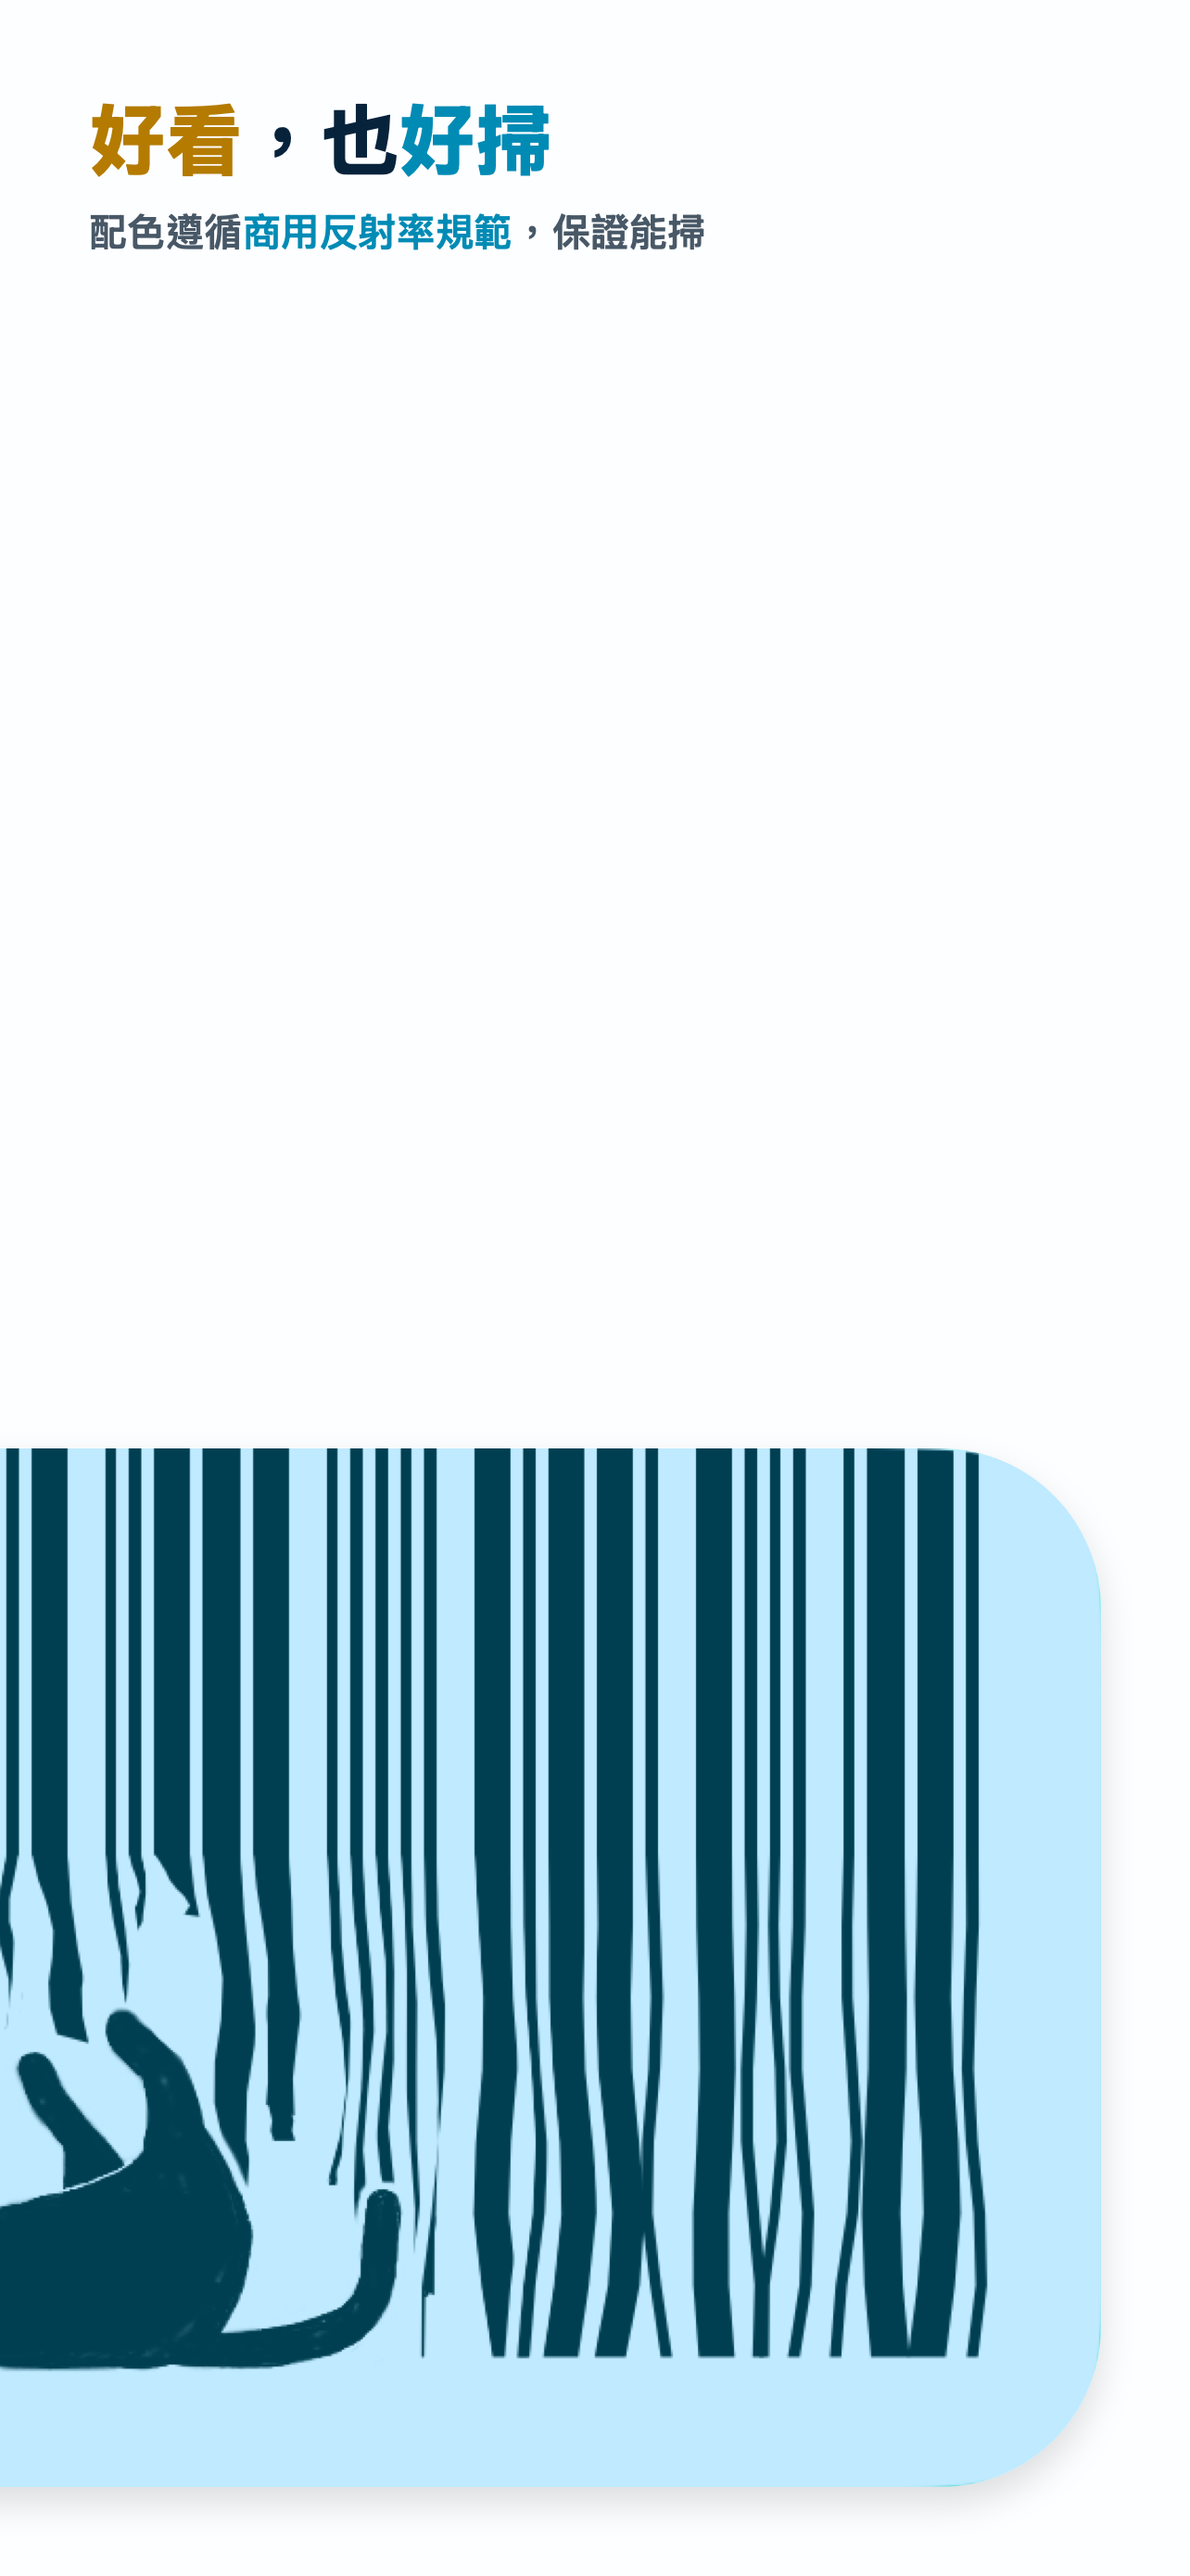
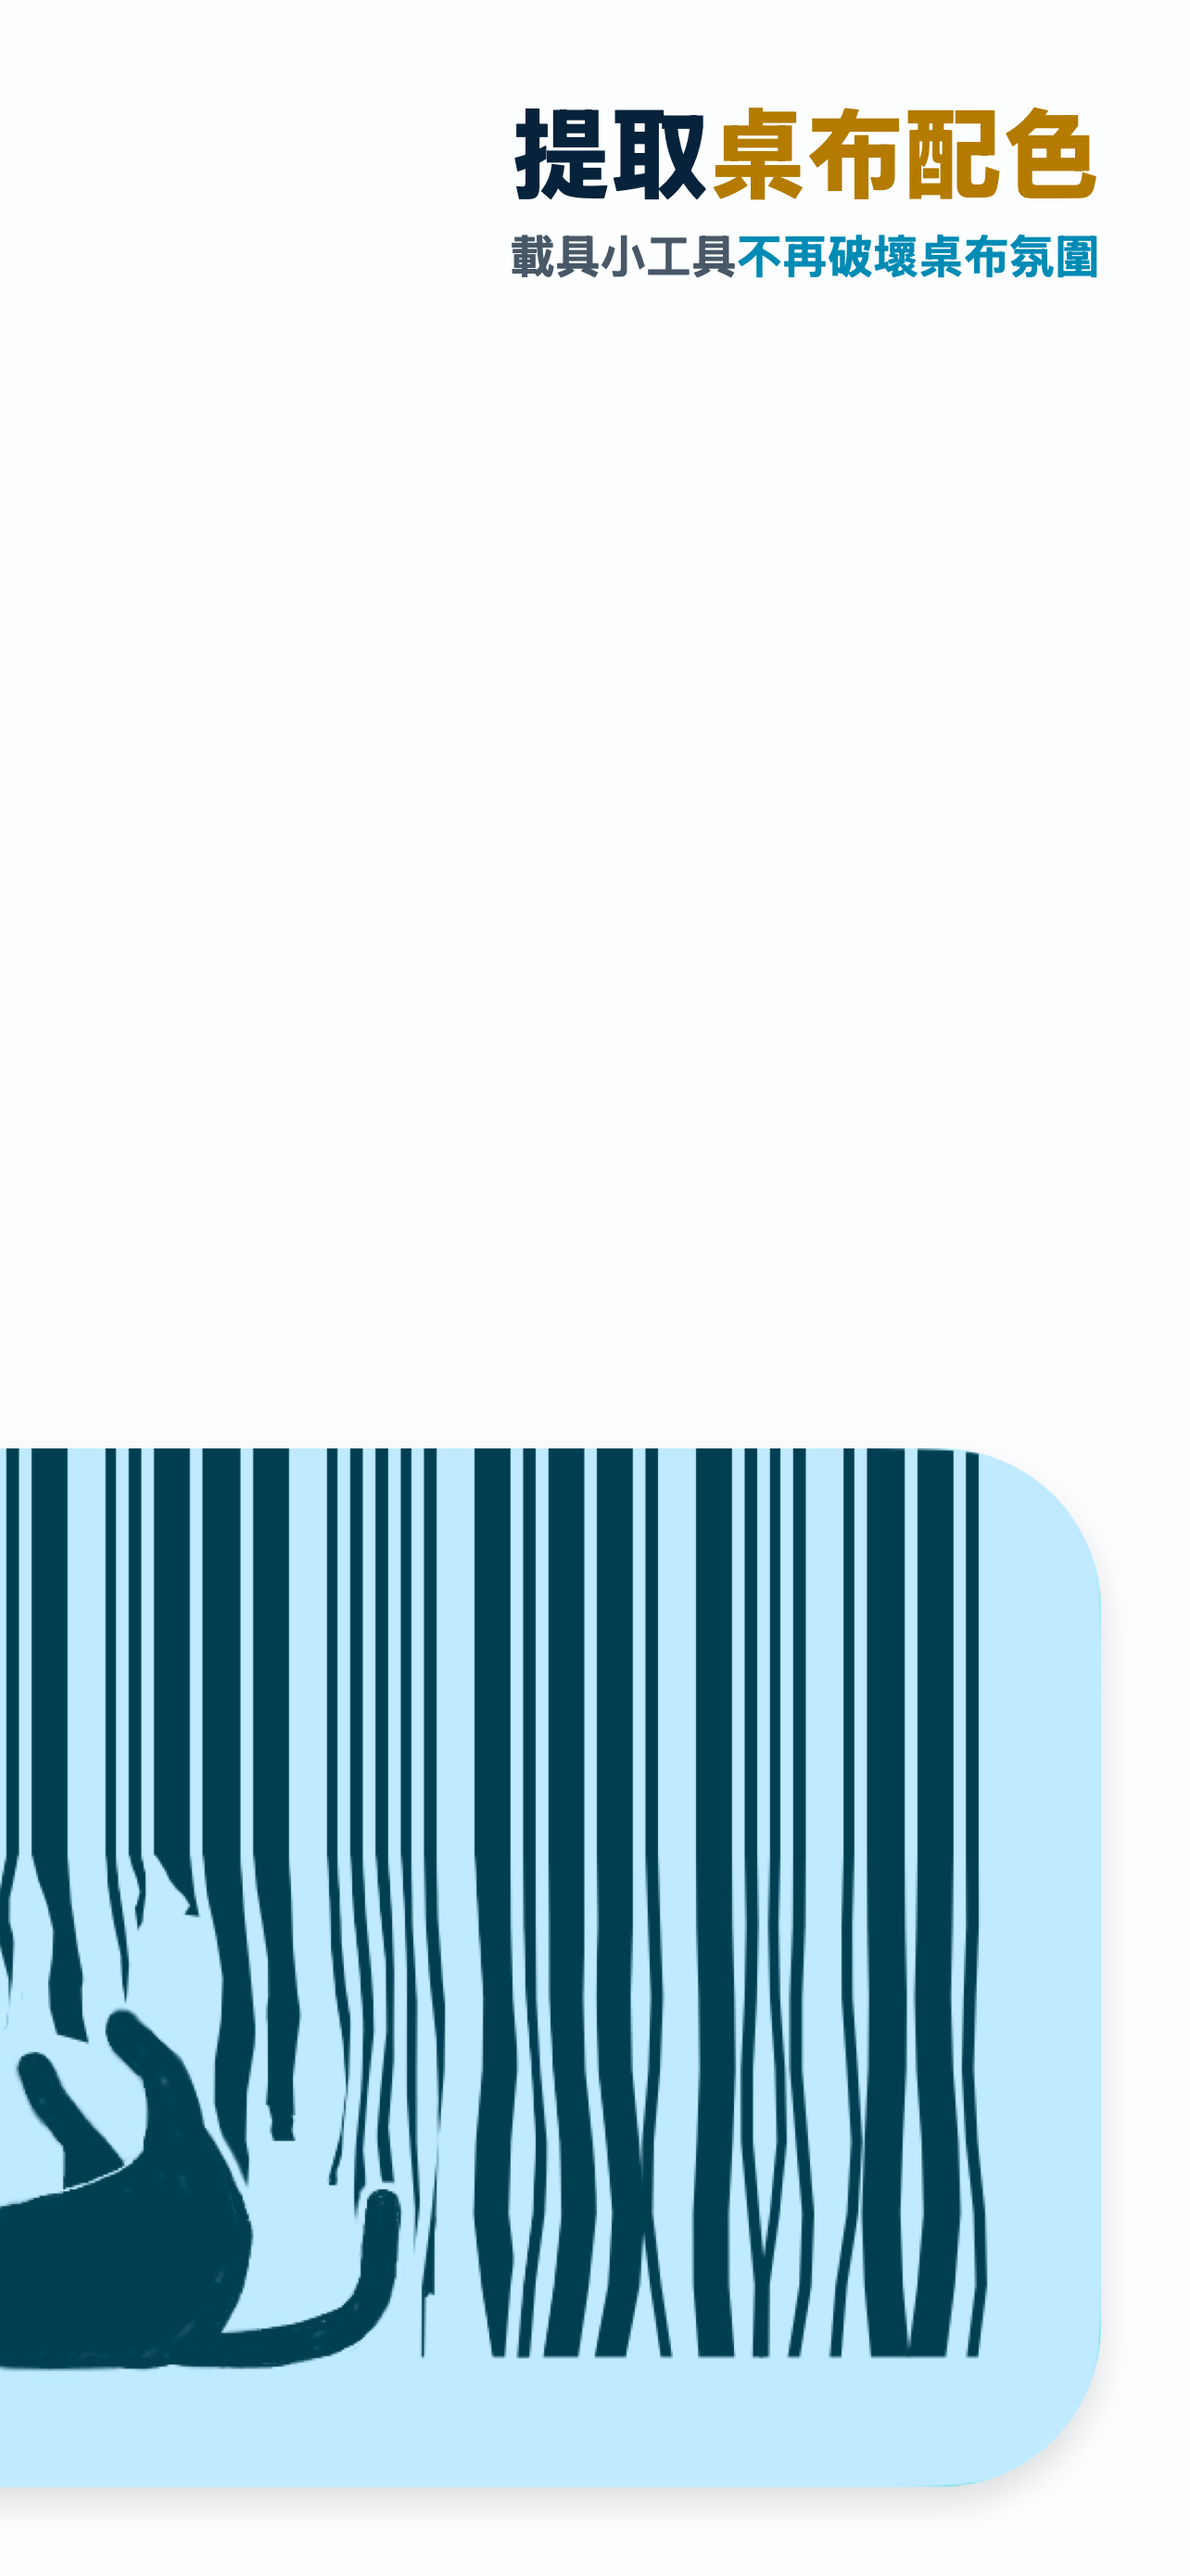
feat: balance app store screenshot copy

Changed region(s): [[0.0623, 0.031, 0.9346, 0.1238]]

diff --git a/scripts/ios-compose-app-store-screenshots.swift b/scripts/ios-compose-app-store-screenshots.swift
@@ -163,50 +163,45 @@ private struct Composer {
     private func drawMessages() {
         let messages = [
             (
+                panelIndex: 2,
                 title: "提取桌布配色",
                 subtitle: "載具小工具不再破壞桌布氛圍",
-                titleTop: CGFloat(2_430),
-                subtitleTop: CGFloat(2_556),
+                titleTop: CGFloat(96),
+                subtitleTop: CGFloat(244),
+                alignment: NSTextAlignment.right,
                 titleAccents: [("桌布配色", Artwork.logoYellowText)],
                 subtitleAccents: [("不再破壞桌布氛圍", Artwork.logoBlueText)]
             ),
             (
+                panelIndex: 0,
                 title: "選擇額外裝飾",
                 subtitle: "別擔心，貓貓會保留安全可掃範圍",
-                titleTop: CGFloat(1_320),
-                subtitleTop: CGFloat(1_440),
+                titleTop: CGFloat(2_424),
+                subtitleTop: CGFloat(2_576),
+                alignment: NSTextAlignment.left,
                 titleAccents: [("額外裝飾", Artwork.logoYellowText)],
                 subtitleAccents: [("安全可掃", Artwork.logoBlueText)]
             ),
-            (
-                title: "好看，也好掃",
-                subtitle: "配色遵循商用反射率規範，保證能掃",
-                titleTop: CGFloat(96),
-                subtitleTop: CGFloat(222),
-                titleAccents: [
-                    ("好看", Artwork.logoYellowText),
-                    ("好掃", Artwork.logoBlueText),
-                ],
-                subtitleAccents: [("商用反射率規範", Artwork.logoBlueText)]
-            ),
         ]
 
-        for (index, message) in messages.enumerated() {
-            let panelX = CGFloat(index * Artwork.panelWidth) + Artwork.padding
+        for message in messages {
+            let panelX = CGFloat(message.panelIndex * Artwork.panelWidth) + Artwork.padding
             let textWidth = CGFloat(Artwork.panelWidth) - Artwork.padding * 2
             drawStyledText(
                 message.title,
-                topRect: CGRect(x: panelX, y: message.titleTop, width: textWidth, height: 112),
-                font: .systemFont(ofSize: 88, weight: .black),
+                topRect: CGRect(x: panelX, y: message.titleTop, width: textWidth, height: 144),
+                font: .systemFont(ofSize: 112, weight: .black),
                 color: Artwork.ink,
-                accents: message.titleAccents
+                accents: message.titleAccents,
+                alignment: message.alignment
             )
             drawStyledText(
                 message.subtitle,
-                topRect: CGRect(x: panelX, y: message.subtitleTop, width: textWidth, height: 72),
-                font: .systemFont(ofSize: 44, weight: .semibold),
+                topRect: CGRect(x: panelX, y: message.subtitleTop, width: textWidth, height: 84),
+                font: .systemFont(ofSize: 52, weight: .bold),
                 color: Artwork.muted,
-                accents: message.subtitleAccents
+                accents: message.subtitleAccents,
+                alignment: message.alignment
             )
         }
     }
@@ -250,10 +245,11 @@ private struct Composer {
         topRect: CGRect,
         font: NSFont,
         color: NSColor,
-        accents: [(String, NSColor)]
+        accents: [(String, NSColor)],
+        alignment: NSTextAlignment
     ) {
         let paragraph = NSMutableParagraphStyle()
-        paragraph.alignment = .left
+        paragraph.alignment = alignment
         paragraph.lineBreakMode = .byTruncatingTail
         let attributed = NSMutableAttributedString(
             string: text,

diff --git a/design-qa.md b/design-qa.md
@@ -1,20 +1,20 @@
 # App Store Screenshot Design QA
 
-- Source visual truth: `/tmp/colorinvo-mustard-panorama.png`, revised by the latest user brief to set the orange widget bars to `#222222` and move the decoration copy group closer to the cat widget.
+- Source visual truth: `/tmp/colorinvo-three-copy-panorama.png`, revised by the latest user brief to retain only two larger copy groups at the panorama's top-right and bottom-left corners.
 - Implementation screenshots: `/Users/hsi/Projects/Apps/Mobile/ColorInvo/assets/screenshots/colorinvo-iphone-6-5-01-wallpaper-palette.png`, `/Users/hsi/Projects/Apps/Mobile/ColorInvo/assets/screenshots/colorinvo-iphone-6-5-02-decorations.png`, `/Users/hsi/Projects/Apps/Mobile/ColorInvo/assets/screenshots/colorinvo-iphone-6-5-03-scanner-widget.png`
 - Viewport: three adjacent 1284 × 2778 App Store screenshots; combined panorama 3852 × 2778.
 - State: Traditional Chinese showcase data, light appearance, orange paint widget with `#222222` bars and blue cat widget.
-- Full-view comparison evidence: `/tmp/colorinvo-black-bars-comparison.png`.
-- Focused comparison evidence: `/tmp/colorinvo-black-bars-contact.png` verifies the three isolated-card crops, copy emphasis, and the tighter cat/copy grouping.
+- Full-view comparison evidence: `/tmp/colorinvo-two-copy-comparison.png`.
+- Focused comparison evidence: `/tmp/colorinvo-two-copy-contact.png` verifies the three isolated-card crops, opposing text alignment, and the text-free center bridge.
 
 ## Findings
 
 - No actionable P0, P1, or P2 differences remain.
-- Fonts and typography: headlines remain 88 px black and supporting text remains 44 px semibold. Color emphasis is limited to 桌布配色、不再破壞桌布氛圍、額外裝飾、安全可掃、商用反射率規範、好看 and 好掃. All other words use the established navy hierarchy, and all copy remains on one line without truncation.
-- Spacing and layout rhythm: the orange paint widget begins 96 px from the panorama's top-left and the blue cat widget ends 96 px from the bottom-right. Both retain their native 329:155 ratio. Their frames are centered on the first and second panel seams respectively. The card 2 copy group moved 60 px downward, leaving 104 px below the orange widget and 50 px above the cat widget, so Gestalt proximity associates it with the cat. Card 1 copy remains at the bottom and card 3 copy remains at the top.
+- Fonts and typography: the two remaining headlines increase from 88 px to 112 px black, and supporting text increases from 44 px semibold to 52 px bold. Color emphasis is limited to 桌布配色、不再破壞桌布氛圍、額外裝飾 and 安全可掃. All copy remains on one line without truncation.
+- Spacing and layout rhythm: the orange paint widget begins 96 px from the panorama's top-left and the blue cat widget ends 96 px from the bottom-right. Both retain their native 329:155 ratio and stay centered on their seams. 提取桌布配色 is right-aligned in the panorama's top-right corner; 選擇額外裝飾 is left-aligned in the bottom-left corner. The opposite anchors balance the strip while the center card becomes an uninterrupted visual bridge.
 - Colors and visual tokens: the paint area remains app-icon orange `#FF9770`, its scanner-safe background remains peach `#FFE4D9`, and its barcode bars are now neutral black `#222222`. The blue widget retains its tint derived from app-icon blue `#70D6FF`. Under the app's red-light reflectance model, the blue pair has background/bar reflectance 0.749/0.000 and symbol contrast 0.749; the orange widget pair has 1.000/0.133 and symbol contrast 0.867. Both exceed the 0.70 commercial guidance threshold.
 - Image quality and asset fidelity: both elements are real widget captures, not reconstructed illustrations. Their native masks, barcode geometry, cat damage treatment, paint shape, and shadows remain sharp at 1284 × 2778 output.
-- Copy and content: card 2 now reads 選擇額外裝飾. The requested benefit phrases are highlighted exactly, and the three messages retain the bottom / middle / top sequence.
+- Copy and content: the 好看，也好掃 group is removed. Only 提取桌布配色 and 選擇額外裝飾 remain, with their existing supporting lines and requested color emphasis.
 
 ## Comparison History
 
@@ -23,7 +23,8 @@
 3. The latest refinement replaced the orange paint state with dark yellow, changed 裝飾 to 額外裝飾, and removed emphasis from 小工具 and 貓貓 in favor of the requested benefit phrases.
 4. The correction restored the orange paint and peach background, limited dark yellow to the barcode bars, and added blue emphasis to 不再破壞桌布氛圍.
 5. The final color refinement changed those bars to `#222222` and moved the card 2 copy group 60 px closer to the cat widget.
-6. The full panorama and isolated-card comparison found no remaining P0, P1, or P2 issues.
+6. The two-message refinement removed 好看，也好掃, enlarged the remaining copy, and anchored the two groups at opposite outer corners.
+7. The full panorama and isolated-card comparison found no remaining P0, P1, or P2 issues.
 
 ## Open Questions
 
@@ -35,9 +36,9 @@
 - [x] Center both widget frames on their respective seams.
 - [x] Preserve the native widget aspect ratio and shared 96 px outer inset.
 - [x] Keep the orange paint and peach background while changing only its barcode bars to scan-safe `#222222`.
-- [x] Place card copy at the bottom, between the widgets, and at the top.
-- [x] Restrict brand-color emphasis to the seven requested benefit phrases.
-- [x] Group the decoration copy more closely with the cat widget through vertical proximity.
+- [x] Remove the third copy group.
+- [x] Enlarge the two remaining copy groups.
+- [x] Right-align 提取桌布配色 at the top-right and left-align 選擇額外裝飾 at the bottom-left.
 - [x] Verify all three 1284 × 2778 outputs and standalone crops.
 
 ## Follow-up Polish
